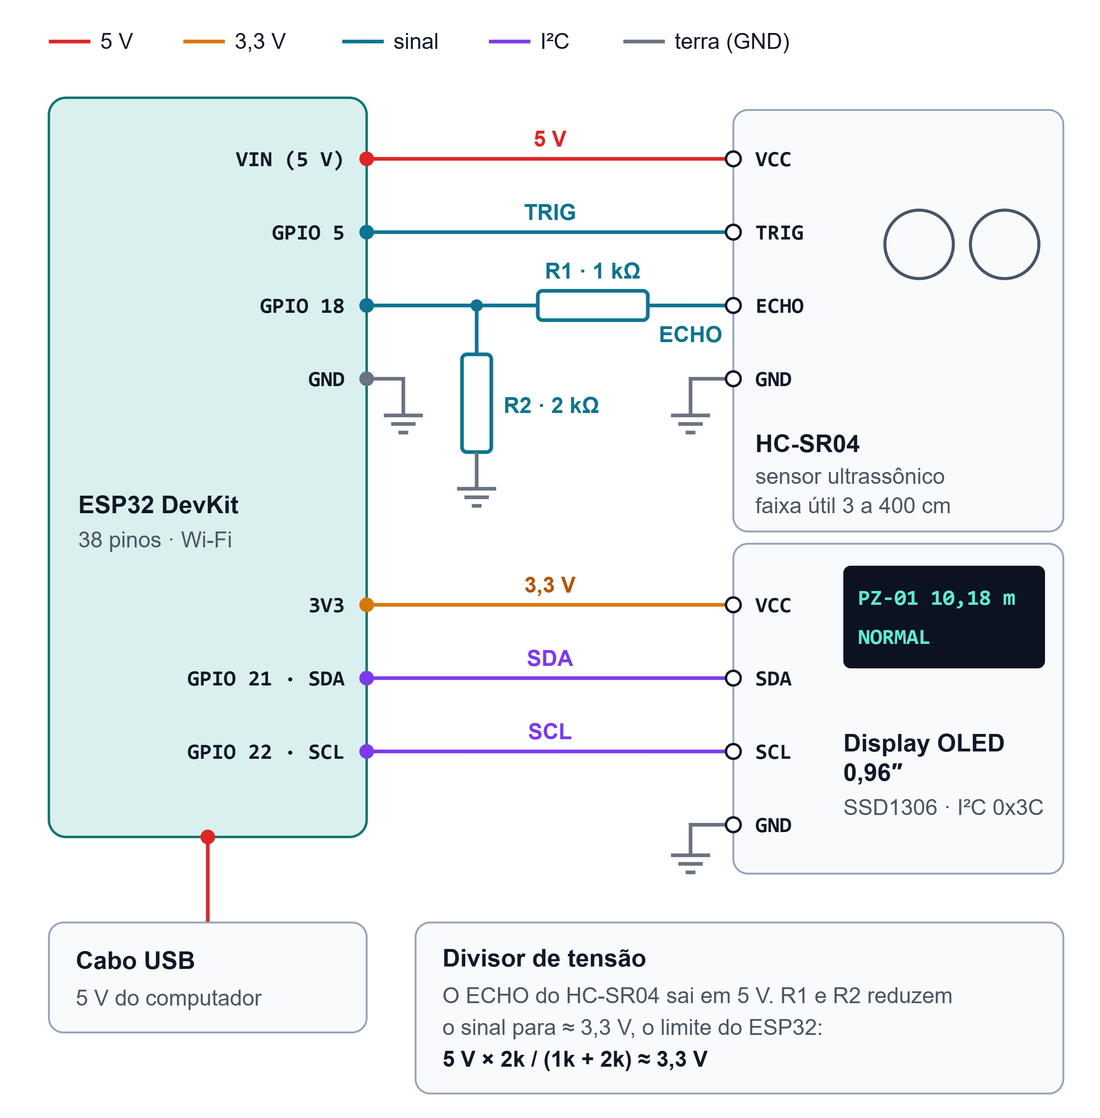
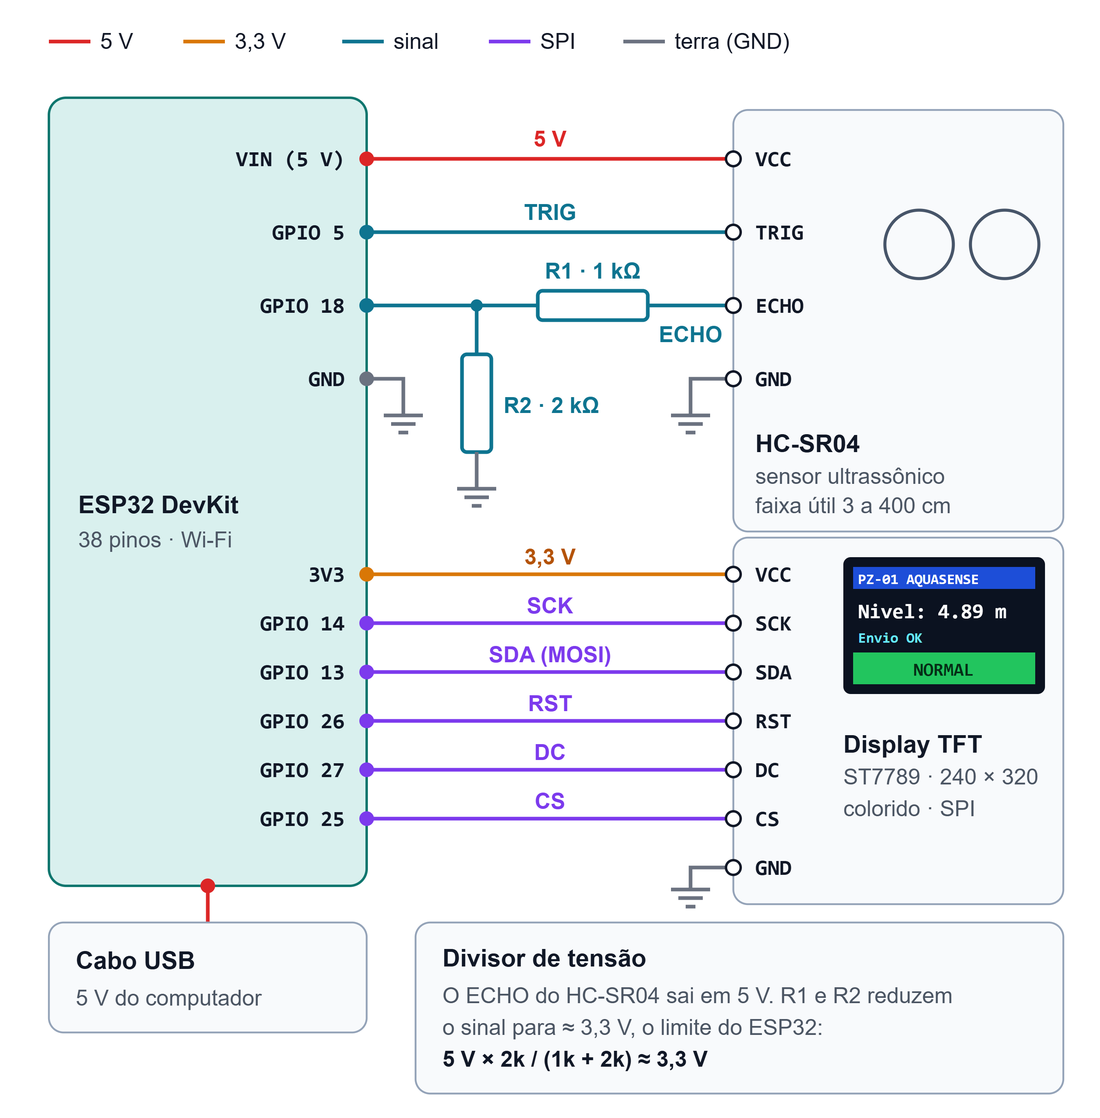
docs: esquema e guia de montagem com o TFT ST7789

Changed region(s): [[0.0309, 0.4562, 0.9582, 0.8211], [0.4945, 0.0304, 0.5255, 0.0608]]

diff --git a/README.md b/README.md
@@ -63,7 +63,7 @@ hardware, use **Iniciar simulação**: os dados são fictícios e a tela avisa i
 |---|---|
 | ESP32 DevKit (38 pinos) | 1 |
 | Sensor ultrassônico HC-SR04 | 1 |
-| Display OLED 0,96" SSD1306, I²C | 1 |
+| Display TFT ST7789 240 × 320, SPI (7 pinos) | 1 |
 | Resistores de 1 kΩ e 2 kΩ (divisor do ECHO) | 1 de cada |
 | Protoboard, jumpers e cabo USB | — |
 
@@ -77,7 +77,7 @@ O ECHO do HC-SR04 sai em 5 V; o divisor de 1 kΩ / 2 kΩ reduz o sinal para cerc
 ### 3. Gravar o firmware
 
 1. Instale a [Arduino IDE](https://www.arduino.cc/en/software), o pacote de placas
-   **esp32** (Espressif) e as bibliotecas **Adafruit SSD1306** e **Adafruit GFX**.
+   **esp32** (Espressif) e as bibliotecas **Adafruit ST7735 and ST7789** e **Adafruit GFX**.
 2. Copie `firmware/aquasense_hc_sr04/` para uma pasta **fora** do repositório e abra
    o `.ino` na IDE.
 3. Na cópia, preencha Wi-Fi, endereço `/ingest`, chave do dispositivo e instrumento
